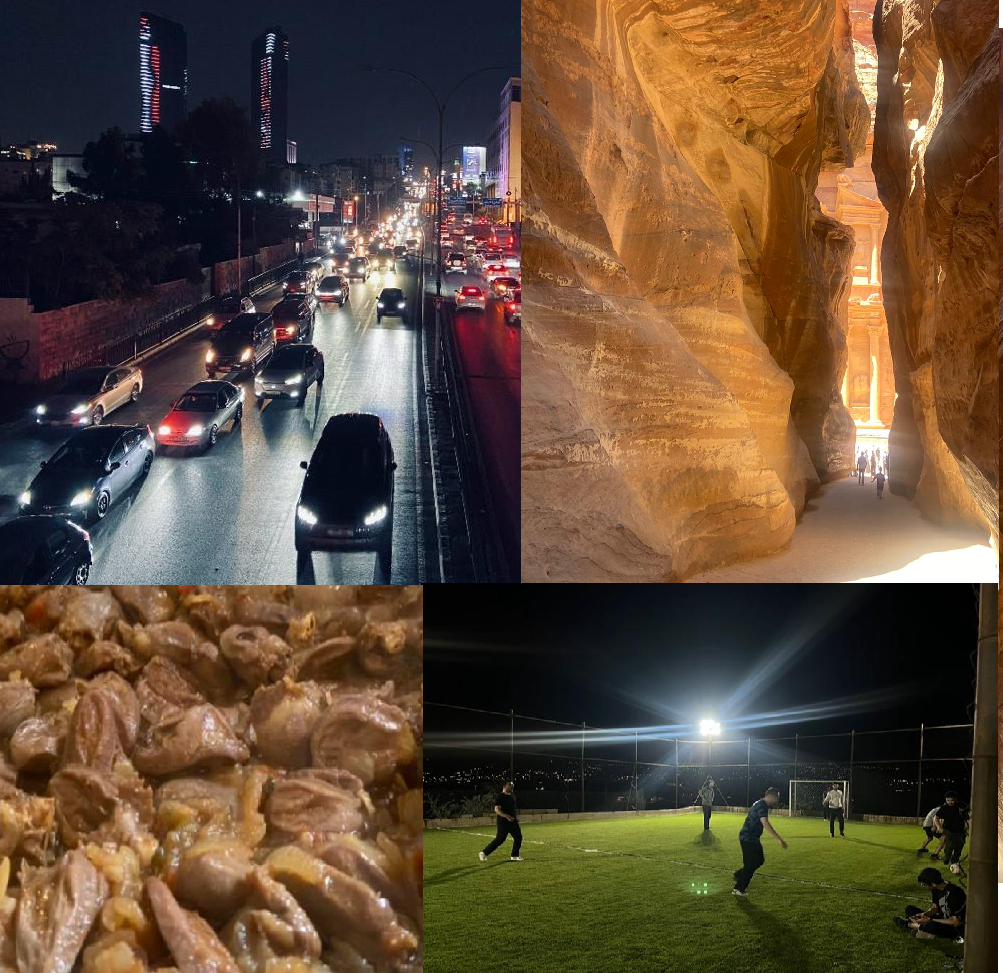
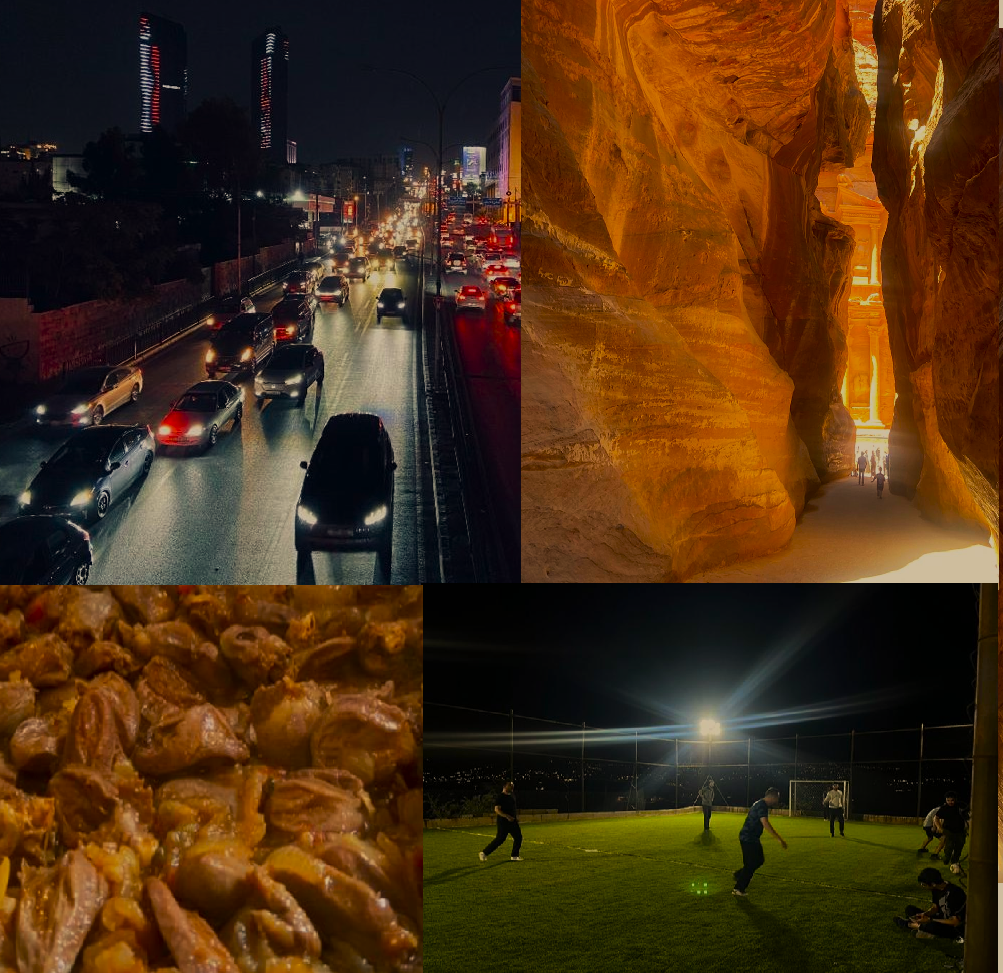
interest shadows, Card layouts, brightness, increased mobile optimization

diff --git a/index.html b/index.html
@@ -158,7 +158,7 @@
                             <div class="flip-card-front text-white rounded-4 p-2">
                                 <img class="projectImg img-fluid" src="Images/EvMap.png" alt="">
                                 <br>
-                                <h3>EV Charger Finder</h3>
+                                <h3 class="pt-3">EV Charger Finder</h3>
                                 <p>A web-application enabling users to find chargers for their Electric Vehicles in the city of choice using latitude mapping</p>
                             </div>
                             <!-- back -->
@@ -182,7 +182,7 @@
                             <div class="flip-card-front text-white rounded-4 p-2">
                                 <img class="projectImg img-fluid" src="Images/devVSdev.png" alt="">
                                 <br>
-                                <h3>GitHub Developer Comparator</h3>
+                                <h3 class="pt-3">GitHub Developer Comparator</h3>
                                 <p>A tool to compare GitHub developers by repositories, stars, followers, and more</p>
                             </div>
                             <!-- back -->
@@ -206,7 +206,7 @@
                             <div class="flip-card-front text-white rounded-4 p-2">
                                 <img class="projectImg img-fluid" src="Images/Login.png" alt="Login/Registration Project">
                                 <br>
-                                <h3>Login/Registration System</h3>
+                                <h3 class="pt-3">Login/Registration System</h3>
                                 <p>A secure user authentication system using PHP, MySQL, and Bootstrap.</p>
 
                                 
@@ -231,7 +231,7 @@
                             <div class="flip-card-front text-white rounded-4 p-2">
                                 <img class="projectImg img-fluid" src="Images/Q-arm.png" alt="">
                                 <br>
-                                <h3>Luggage Transport System</h3>
+                                <h3 class="pt-3">Luggage Transport System</h3>
                                 <p>
                                     A Raspberry Pi 4 project using a Q-Arm and ramp to transport luggage prototypes
                                 </p>
@@ -258,7 +258,7 @@
                             <div class="flip-card-front text-white rounded-4 p-2">
                                 <img class="projectImg img-fluid" src="Images/ZenLenZ.png" alt="ZenLenZ Screenshot">
                                 <br>
-                                <h3>ZenLenZ (Camera stabilizer System)</h3>
+                                <h3 class="pt-3">ZenLenZ (Camera stabilizer System)</h3>
                                 <p>A joystick-controlled camera stabilizer to aid users suffering from ALS in taking pictures with their phones</p>
                             </div>
                             <!-- back -->
@@ -286,7 +286,7 @@
                             <div class="flip-card-front text-white rounded-4 p-2">
                                 <img class="projectImg img-fluid" src="Images/PotLidCeremony.png" alt="Modified Pot Lid Prototype">
                                 <br>
-                                <h3>Modified Pot Lid</h3>
+                                <h3 class="pt-3">Modified Pot Lid</h3>
                                 <p>
                                     Ranked top 10 among all projects!
                                     <br><br>
@@ -318,7 +318,8 @@
         <!-- Experience Start -->
         <section id="experience" class="experience bg-black pb-5">
             
-            <h2>Experience</h2>
+            <h2>Career</h2>
+            <p class="caption hoverText text-center text-white mt-3 mb-0">Hover over cards to flip them! </p>
 
             <div class="row gy-5 mt-1 text-white">
                 <div class="col-12 col-md-6 d-flex flex-column align-items-center">
@@ -338,20 +339,21 @@
             
                 <div class="col-12 col-md-6 d-flex flex-column align-items-center">
                     <h3 class="text-center"><i class="fa-solid fa-table-list"></i> Experience <i class="fa-solid fa-table-list"></i></h3>
-                    <p class="caption hoverText text-center">Hover over cards to flip them! </p>
                     <div class="flip-card cardSizer">
                         <div class="flip-card-inner">
                             <!-- front -->
                             <div class="flip-card-front text-white rounded-4 p-2" style="font-family: 'Times New Roman', Times, serif;">
                                 <img class="projectImg img-fluid" src="Images/Orange.png" alt="Login/Registration Project">
                                 <br>
-                                <h3 class="text-white text-center fw-bold">
-                                    Orange Telecommunications
-                                </h3>
-                                <h4 class="card-text text-white text-center">
-                                    Web Development Internship 
-                                </h4>
-                                
+                                    <h3 class="text-white text-center fw-bold pt-3">
+                                        Orange Telecommunications
+                                    </h3>
+                                    <hr>
+                                    <h4 class="card-text text-white text-center">
+                                        Web Development Internship 
+                                        <br>
+                                        May 2025 - August 2025
+                                    </h4>
                             </div>
                             <!-- back -->
                             <div class="flip-card-back rounded-4 p-3">
@@ -375,20 +377,20 @@
         <section id="interests" class="interests p-5 text-white d-flex flex-column">
             <br><br><br>
             <div class="container text-center">
-                <div class="interestBubble bg-black p-3">
-                <h3>Sports</h3>
+                <div class="interestBubble p-3">
+                <h3 class="interestText">Sports</h3>
                 </div>
                 <br>
-                <div class="interestBubble bg-black p-3">
-                <h3>Cooking</h3>
+                <div class="interestBubble p-3">
+                <h3 class="interestText">Cooking</h3>
                 </div>
                 <br>
-                <div class="interestBubble bg-black p-3">
-                <h3>Photography</h3>
+                <div class="interestBubble p-3">
+                <h3 class="interestText">Photography</h3>
                 </div>
                 <br>
-                <div class="interestBubble bg-black p-3">
-                <h3>Travelling</h3>
+                <div class="interestBubble p-3">
+                <h3 class="interestText">Travelling</h3>
                 </div>
             </div>
             

diff --git a/styles.css b/styles.css
@@ -130,7 +130,7 @@ hr {
 .flip-card {
   background-color: transparent;
   min-width: 300px;
-  height: 475px;
+  height: 500px;
   perspective: 1000px; 
   cursor: pointer;
 }
@@ -210,11 +210,13 @@ hr {
 }
 .expCard {
   background-color: #003932 !important;
-  height: 300px !important;  width: 300px !important;
+  height: 370px !important;  width: 300px !important;
   font-family: 'Times New Roman', Times, serif;
+  box-shadow: 0 0 10px 1px rgb(255, 255, 255);
+
 }
 .cardSizer {
-    height: 300px !important;  width: 300px !important;
+    height: 370px !important;  width: 300px !important;
 }
 
 /* Interests */
@@ -236,15 +238,20 @@ hr {
     background-attachment: fixed !important;
   }
 }
-.interestBubble {
+/*.interestBubble {
   margin-bottom: 40px; margin-top: 40px;
   text-align: center;
   border-radius: 50%;
   width:auto !important;
   border: solid;
-  box-shadow: 0 0 10px 10px white;
-  display: inline-block !important;   /* makes the div only as wide as its content */
+  text-shadow: 0 0 10px 10px rgb(0, 0, 0);
+  display: inline-block !important;   /* makes the div only as wide as its content 
+} */
+
+.interestText {
+  text-shadow: 0 0 20px 20px rgb(0, 0, 0) !important;
 }
+
 
 
 
